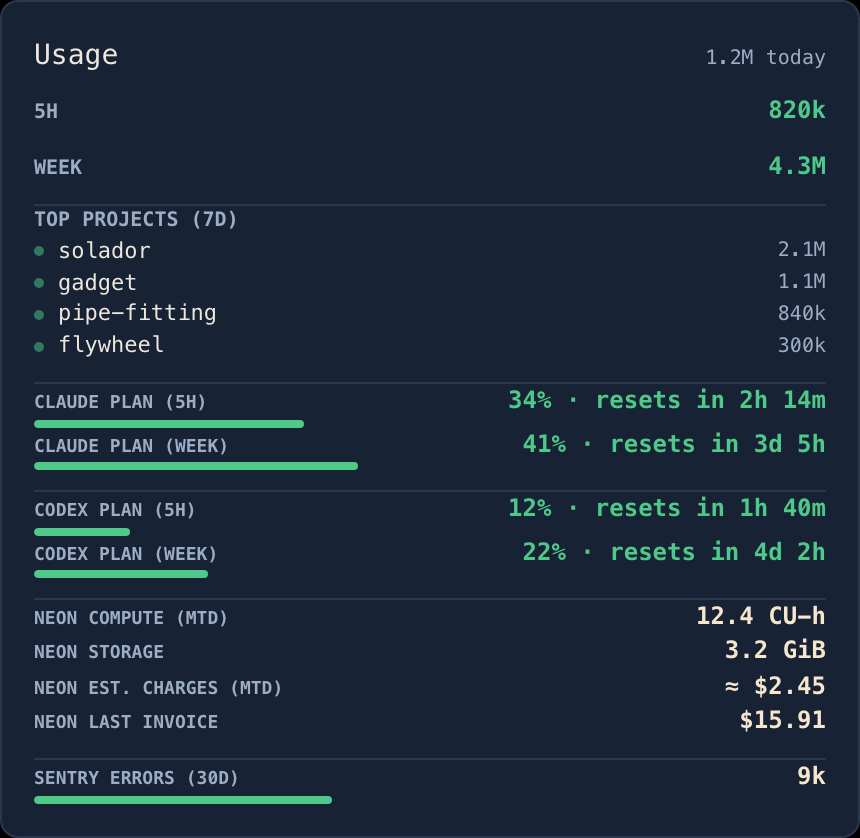
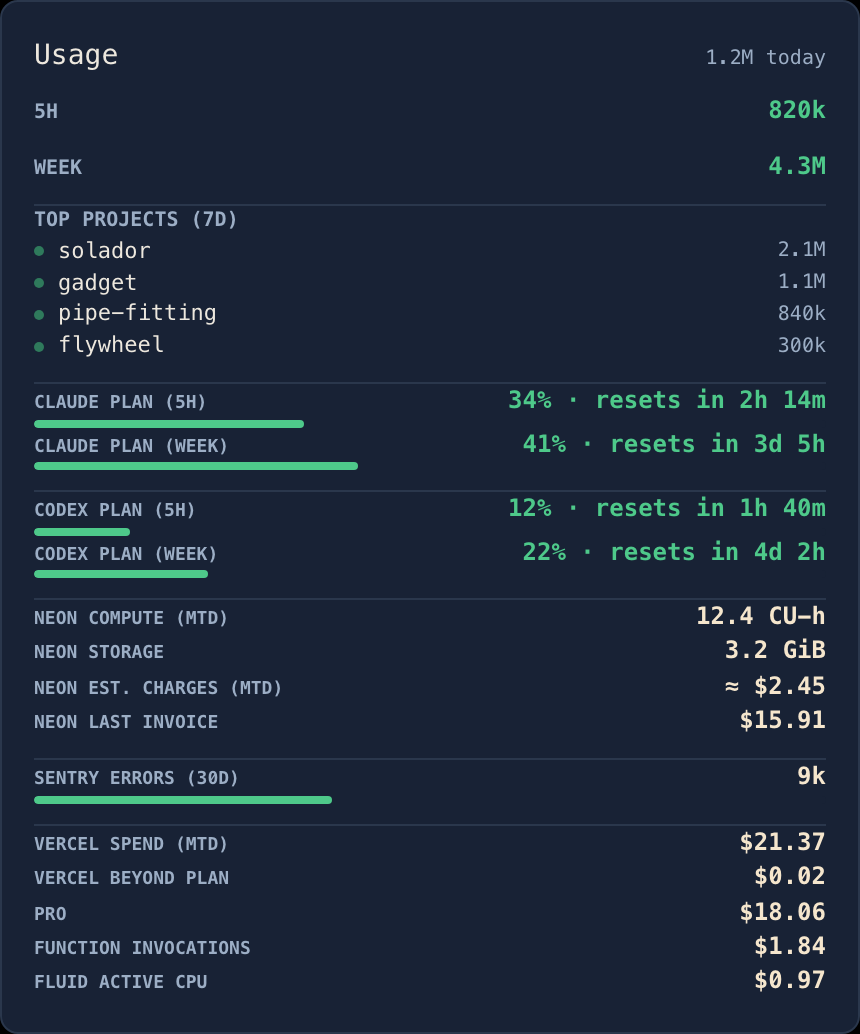
fix(site): frame the Usage card on Neon, Sentry and Vercel, with a showcase Vercel reading (#693)
* fix(site): frame the Usage card on Neon, Sentry and Vercel, with a showcase Vercel reading

Add usage::Fixture::Showcase (Measured plus a Vercel reading through
ProviderState), wire --dump-usage --showcase and the showcase dashboard to it,
anchor only the Usage card bottom left (.tile-shot-bottom), reword its alt and
card text to what the crop shows, regenerate panel-usage.png, and guard the
framing in the generator, the site suite and Rust tests.

Closes #685

* fix(site): correct the plan-limits claim and tidy the showcase test (#685)

The bottom crop still shows the Codex plan rows, unnamed, at its top edge, so
WEBSITE.md now says the card's words no longer name the plan limits rather than
that they do not appear. Restore the doc comment to the fixtures test, assert
the showcase service labels and values, and put the window sizes back beside
the sentence about sizing.

Closes #685

---------

diff --git a/tests/frontend/screenshots.spec.js b/tests/frontend/screenshots.spec.js
@@ -69,6 +69,18 @@ const COCKPITS = {
 /** The box `.tile-shot img` crops each panel image into on solador.app (site.css, 311x195 at the 3-up layout). */
 const SHOT_W = 311;
 const SHOT_H = 195;
+/**
+ * Every box the card is seen in, as [width, height] (site.css, #685): `.tile-shot`
+ * is 210 tall with 14px of padding above and a 1px bottom border, so the image
+ * box is 195 high (border-box); `.tiles` is 3-up at 1280 (311 wide), 2-up at 800
+ * (330) and 1-up at 390 (328), inside `.wrap` (1120 max, a clamp(16px, 4vw, 32px)
+ * gutter, a 16px gap). 311x195 is SHOT_W x SHOT_H above.
+ */
+const SHOT_BOXES = [
+  [SHOT_W, SHOT_H],
+  [330, 195],
+  [328, 195],
+];
 
 const fixture = async (baseURL, name) => (await fetch(`${baseURL}/${name}`)).json();
 
@@ -142,6 +154,33 @@ async function expectRemoteHostInCrop(panel) {
   expect(remote.x - box.x).toBeLessThan(visibleW / 2);
 }
 
+/**
+ * The Usage card says "Neon, Sentry and Vercel consumption", so each of those
+ * three sections must lie wholly inside the crop the site shows. Usage is the
+ * one card anchored bottom left (`.tile-shot-bottom`): `cover` scales the image
+ * to fill the box, and what lies above the bottom `visibleH` rows is cut. The
+ * crop must also keep the panel's full width, or a two-column panel (a wider
+ * window than 462pt) would cut the providers' values on the right.
+ */
+async function expectProvidersInBottomCrop(panel) {
+  const box = await panel.boundingBox();
+  for (const id of ["neon", "sentry", "vercel"]) {
+    await expect(panel.locator(`.pv-section[data-provider="${id}"]`)).toHaveCount(1);
+  }
+  for (const [w, h] of SHOT_BOXES) {
+    const scale = Math.max(w / box.width, h / box.height);
+    const visibleW = w / scale;
+    const visibleH = h / scale;
+    expect(visibleW, `${w}x${h} shows the panel's full width`).toBeGreaterThanOrEqual(box.width - 0.5);
+    for (const id of ["neon", "sentry", "vercel"]) {
+      const section = await panel.locator(`.pv-section[data-provider="${id}"]`).boundingBox();
+      const top = section.y - box.y;
+      expect(top, `${id} starts inside the ${w}x${h} crop`).toBeGreaterThanOrEqual(box.height - visibleH);
+      expect(top + section.height, `${id} ends inside the ${w}x${h} crop`).toBeLessThanOrEqual(box.height + 0.5);
+    }
+  }
+}
+
 test.beforeAll(async () => {
   await fs.mkdir(OUT, { recursive: true });
 });
@@ -193,6 +232,7 @@ test.describe("at 2x: the shots people look at", () => {
       const panel = page.locator(selector);
       await expect(panel).toBeVisible();
       if (name === "containers") await expectRemoteHostInCrop(panel);
+      if (name === "usage") await expectProvidersInBottomCrop(panel);
       await panel.screenshot({ path: path.join(OUT, `panel-${name}.png`) });
     });
   }

diff --git a/tests/frontend/site.spec.js b/tests/frontend/site.spec.js
@@ -338,6 +338,30 @@ test("every screenshot's declared width and height is its file's pixel size", ()
   }
 });
 
+/**
+ * The Usage card is the one card anchored bottom left (#685): its text names
+ * Neon, Sentry and Vercel consumption, which sit at the bottom of the panel.
+ * Every other card is a window onto the panel's top-left. This is what ties
+ * `site.css` to the bottom-crop assumption `screenshots.spec.js` checks.
+ */
+test("only the Usage card's screenshot is anchored bottom left", async ({ page }) => {
+  await openSite(page, "/");
+  const anchors = await page.$$eval(".tile-shot img", (imgs) =>
+    imgs.map((img) => ({
+      src: new URL(img.src).pathname,
+      position: getComputedStyle(img).objectPosition,
+    })),
+  );
+  expect(anchors.length).toBeGreaterThan(1);
+  for (const { src, position } of anchors) {
+    expect({ src, position }).toEqual({
+      src,
+      position: src === "/assets/screenshots/panel-usage.png" ? "0% 100%" : "0% 0%",
+    });
+  }
+  expect(anchors.filter((a) => a.src === "/assets/screenshots/panel-usage.png")).toHaveLength(1);
+});
+
 test.describe("every page", () => {
   for (const urlPath of PAGES) {
     test(`${urlPath} raises no CSP violation and every local link and asset exists`, async ({ page }) => {

diff --git a/site/index.html b/site/index.html
@@ -130,10 +130,10 @@
             </div>
           </li>
           <li class="tile">
-            <div class="tile-shot"><img src="/assets/screenshots/panel-usage.png" alt="Claude Code token rollups and the Claude and Codex plan limits beside Neon, Sentry and Vercel consumption." loading="lazy" width="860" height="838"></div>
+            <div class="tile-shot tile-shot-bottom"><img src="/assets/screenshots/panel-usage.png" alt="Neon compute, storage and charges, Sentry's error count against its quota, and Vercel's month-to-date spend by service." loading="lazy" width="860" height="1034"></div>
             <div class="tile-body">
               <h3>Usage</h3>
-              <p>Claude Code token rollups from the logs already on your disk, the Claude and Codex plans' own 5-hour and weekly limits if you turn them on, plus Neon, Sentry and Vercel consumption.</p>
+              <p>Neon, Sentry and Vercel consumption, each from its own optional credential: compute, storage and charges, errors against your monthly quota, and month-to-date spend by service.</p>
             </div>
           </li>
           <li class="tile">

diff --git a/site/assets/site.css b/site/assets/site.css
@@ -411,7 +411,11 @@ pre code {
 
 /* A window onto each panel's top-left corner, where its names and first
    readings sit. `cover` keeps every crop at a legible scale whatever its
-   aspect: a wide panel is cut on the right, a tall one at the bottom. */
+   aspect: a wide panel is cut on the right, a tall one at the bottom. The one
+   exception is the Usage card (.tile-shot-bottom, below): its panel is a stack
+   of independent sections, and its top-left (the Claude rollups) is already
+   claimed on the home page, so the card anchors bottom left to show the Neon,
+   Sentry and Vercel consumption its text names. */
 .tile-shot {
   height: 210px;
   padding: 14px 14px 0;
@@ -426,6 +430,10 @@ pre code {
   border-radius: 8px 8px 0 0;
   object-fit: cover;
   object-position: left top;
+}
+
+.tile-shot-bottom img {
+  object-position: left bottom;
 }
 
 .tile-body {

diff --git a/app/src-tauri/src/usage.rs b/app/src-tauri/src/usage.rs
@@ -888,6 +888,11 @@ pub enum Fixture {
     /// Everything measured: Claude content, both plans' windows (well inside
     /// their limits), Neon figures + last invoice, Sentry count + bar.
     Measured,
+    /// [`Fixture::Measured`] plus a Vercel reading, for the website's Usage
+    /// card and the README's full image (#685). Kept apart from `Measured` so
+    /// the e2e suite's fixture stays at two providers; the reading goes through
+    /// the same `ProviderState` and section a poll fills.
+    Showcase,
     /// Both providers configured and answering, neither measuring anything —
     /// the em-dash path, with the quota set and the bar therefore suppressed.
     Unmeasured,
@@ -917,7 +922,7 @@ pub fn fixture_state(kind: Fixture, claude_at: u64, providers_at: u64) -> UsageS
         Fixture::Empty => {
             state.apply_claude(None, claude_at, Some(NO_LOG_ROOT_MESSAGE.to_owned()));
         }
-        Fixture::Measured => {
+        Fixture::Measured | Fixture::Showcase => {
             state.apply_claude(Some(fixture_summary()), claude_at, None);
             // Read at the providers' clock, reset times from the render's: a
             // stale dump moves only when the plans were read, so its rows and
@@ -950,6 +955,34 @@ pub fn fixture_state(kind: Fixture, claude_at: u64, providers_at: u64) -> UsageS
                 at,
                 None,
             );
+            if kind == Fixture::Showcase {
+                // The figures are the real capture's service names
+                // (`crates/usage/tests/fixtures/vercel_charges.jsonl`); `Pro`
+                // is the plan's ~$1.29/day over the 14 days the fixture clock
+                // has reached.
+                state.vercel.succeeded(
+                    VercelUsageSummary::Measured {
+                        effective_usd: 21.37,
+                        billed_usd: 0.02,
+                        top_services: vec![
+                            usage::vercel::ServiceSpend {
+                                name: "Pro".into(),
+                                effective_usd: 18.06,
+                            },
+                            usage::vercel::ServiceSpend {
+                                name: "Function Invocations".into(),
+                                effective_usd: 1.84,
+                            },
+                            usage::vercel::ServiceSpend {
+                                name: "Fluid Active CPU".into(),
+                                effective_usd: 0.97,
+                            },
+                        ],
+                    },
+                    at,
+                    None,
+                );
+            }
         }
         Fixture::Unmeasured => {
             state.apply_claude(Some(fixture_summary()), claude_at, None);
@@ -1922,6 +1955,52 @@ mod tests {
     }
 
     // MARK: the fixtures
+
+    /// The showcase is `Measured` plus a Vercel reading (#685): the website's
+    /// Usage card is framed on the three providers.
+    #[test]
+    fn the_showcase_fixture_is_measured_plus_a_vercel_reading() {
+        let measured = view(
+            &fixture_state(Fixture::Measured, NOW, NOW),
+            QUOTA,
+            RATES,
+            CADENCE,
+            NOW,
+        );
+        let showcase = view(
+            &fixture_state(Fixture::Showcase, NOW, NOW),
+            QUOTA,
+            RATES,
+            CADENCE,
+            NOW,
+        );
+        let ids: Vec<&str> = showcase["providers"]
+            .as_array()
+            .unwrap()
+            .iter()
+            .map(|s| s["id"].as_str().unwrap())
+            .collect();
+        assert_eq!(ids, ["neon", "sentry", "vercel"]);
+        for id in ["neon", "sentry"] {
+            assert_eq!(section(&showcase, id), section(&measured, id), "{id}");
+        }
+        let rows = section(&showcase, "vercel").expect("vercel")["rows"]
+            .as_array()
+            .unwrap()
+            .clone();
+        assert_eq!(rows[0]["label"], "VERCEL SPEND (MTD)");
+        assert_eq!(rows[1]["label"], "VERCEL BEYOND PLAN");
+        assert_eq!(rows.len(), 5, "two totals then three service rows");
+        let labels: Vec<&str> = rows[2..]
+            .iter()
+            .map(|r| r["label"].as_str().unwrap())
+            .collect();
+        assert_eq!(labels, ["PRO", "FUNCTION INVOCATIONS", "FLUID ACTIVE CPU"]);
+        for row in &rows {
+            let value = row["value"].as_str().expect("a string value");
+            assert!(value.starts_with('$'), "{row}");
+        }
+    }
 
     /// The Playwright suite renders these payloads, so a fixture that quietly
     /// lost the case it claims to exercise would leave that suite green while

diff --git a/app/src-tauri/src/main.rs b/app/src-tauri/src/main.rs
@@ -6351,7 +6351,7 @@ fn dump_showcase_dashboard() -> Value {
             dump_containers_showcase(),
             services::view(&services::showcase_statuses()),
             dump_crons(crons::Fixture::Healthy, false),
-            dump_usage(usage::Fixture::Measured, false, SHOWCASE_USAGE_QUOTA),
+            dump_usage(usage::Fixture::Showcase, false, SHOWCASE_USAGE_QUOTA),
             dump_azure(azure::Fixture::Measured, false, SHOWCASE_AZURE_BUDGET),
             dump_openclaw(openclaw::Fixture::Showcase),
         ],
@@ -6455,7 +6455,7 @@ fn dump_usage(kind: usage::Fixture, stale: bool, quota: u64) -> Value {
     // comparing two different bodies. Every other dump renders the panel as a
     // store starts, both plans off, which puts the setup line in front of the
     // browser suite.
-    let plans = if kind == usage::Fixture::Measured {
+    let plans = if matches!(kind, usage::Fixture::Measured | usage::Fixture::Showcase) {
         usage::FIXTURE_PLANS
     } else {
         plan_usage::PlanInputs::OFF
@@ -7035,6 +7035,8 @@ fn run_dump(args: &[String]) -> bool {
             usage::Fixture::Empty
         } else if args.iter().any(|arg| arg == "--unmeasured") {
             usage::Fixture::Unmeasured
+        } else if showcase {
+            usage::Fixture::Showcase
         } else {
             usage::Fixture::Measured
         };
@@ -11736,6 +11738,16 @@ mod tests {
     fn the_local_fixture_card_does_not_vary_per_run() {
         assert_eq!(dump_local_card(), dump_local_card());
         assert_eq!(dump_local_card()["hostName"], "mac-studio");
+    }
+
+    /// The showcase Usage payload keeps both plan sections and carries the
+    /// Vercel reading (#685): the plan condition in `dump_usage` must hold for
+    /// `Showcase`, or the README's full image silently loses its plan rows.
+    #[test]
+    fn the_showcase_usage_dump_has_both_plans_and_three_providers() {
+        let dump = dump_usage(usage::Fixture::Showcase, false, SHOWCASE_USAGE_QUOTA);
+        assert_eq!(dump["plans"].as_array().expect("plans").len(), 2);
+        assert_eq!(dump["providers"].as_array().expect("providers").len(), 3);
     }
 
     /// The showcase is what solador.app and the README show, and its claim is

diff --git a/docs/WEBSITE.md b/docs/WEBSITE.md
@@ -57,16 +57,28 @@ from `tests/frontend/og-card.html`. The nine `panel-*.png` are a tile's **Full
 view** (View, then Full view) of the showcase readings. Full view lays a panel out
 in columns across the whole window, so the window is sized per panel in
 `tests/frontend/screenshots.spec.js` to the shape its card needs: `.tile-shot img`
-crops each image into a 311x195 box with `object-fit: cover`, anchored top left,
-so the image's shape decides what the card shows. 908pt for Repos and Runners,
-462pt for the panels that stack (Containers, Azure Cost, Usage, Crons, Services,
-OpenClaw), 900pt for Hosts. Containers keeps the remote host under this machine's
-(the generator asserts it is inside the crop), and every screenshot's
+crops each image into a 311x195 box (330x195 at 2-up, 328x195 at 1-up) with
+`object-fit: cover`, so the image's shape decides what the card shows. 908pt for
+Repos and Runners, 462pt for the panels that stack (Containers, Azure Cost,
+Usage, Crons, Services, OpenClaw), 900pt for Hosts. Every card is anchored top
+left except Usage, which `.tile-shot-bottom` anchors bottom left: its panel is a
+stack of independent sections, its top-left (the Claude rollups) is already
+claimed under "Useful before you configure anything", and its card text names
+the Neon, Sentry and Vercel consumption at the bottom. The card's words no
+longer name the Claude and Codex plan limits; the Codex plan rows still show,
+unnamed, at the top edge of the crop. The limits are claimed on `/setup/` and in
+the README. The showcase Usage payload is `usage::Fixture::Showcase`: the
+measured fixture plus a Vercel reading, which the e2e suite's `Measured`
+deliberately lacks. Containers keeps the remote host under this machine's
+(the generator asserts it is inside the crop), the generator asserts that Usage's
+Neon, Sentry and Vercel sections sit inside its bottom-anchored crop at all three
+boxes with the panel's full width (a two-column Usage at 908pt fails it), and
+`site.spec.js` asserts only Usage's image is anchored bottom, which ties the CSS
+to that assumption. Every screenshot's
 `width`/`height` in `site/index.html` is the file's pixel size (`site.spec.js`
-compares them; `mark.svg`'s sizes are not checked). The Usage card's alt text
-names Neon, Sentry and Vercel consumption, but at the 3-up 311x195 crop the
-image ends at the Codex plan rows, and the showcase Usage payload carries no
-Vercel reading at all, so the crop does not yet match that caption. Azure
+compares them; `mark.svg`'s sizes are not checked). The wide end of the 2-up and
+1-up layouts (near 960 and 640px) shows less of every tall card, Usage's Neon
+rows included; 1280, 800 and 390 are the checked widths. Azure
 Cost's "Azure Database for PostgreSQL" is still cut by the panel's own ellipsis at
 462pt. There are no other cockpit shots: `cockpit.png` and `cockpit-narrow.png`
 went with Solador's Full view (#647).
